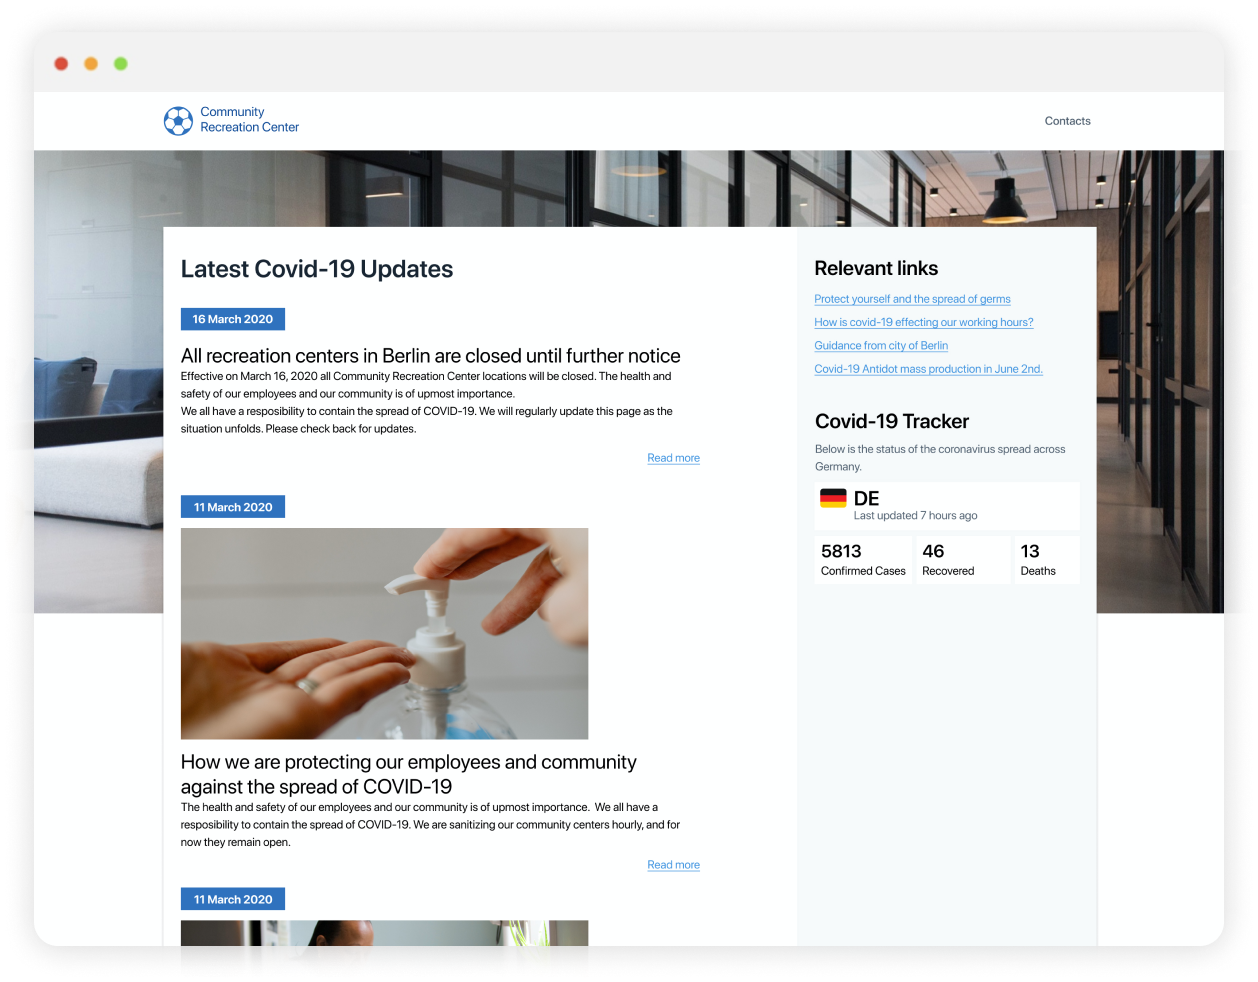
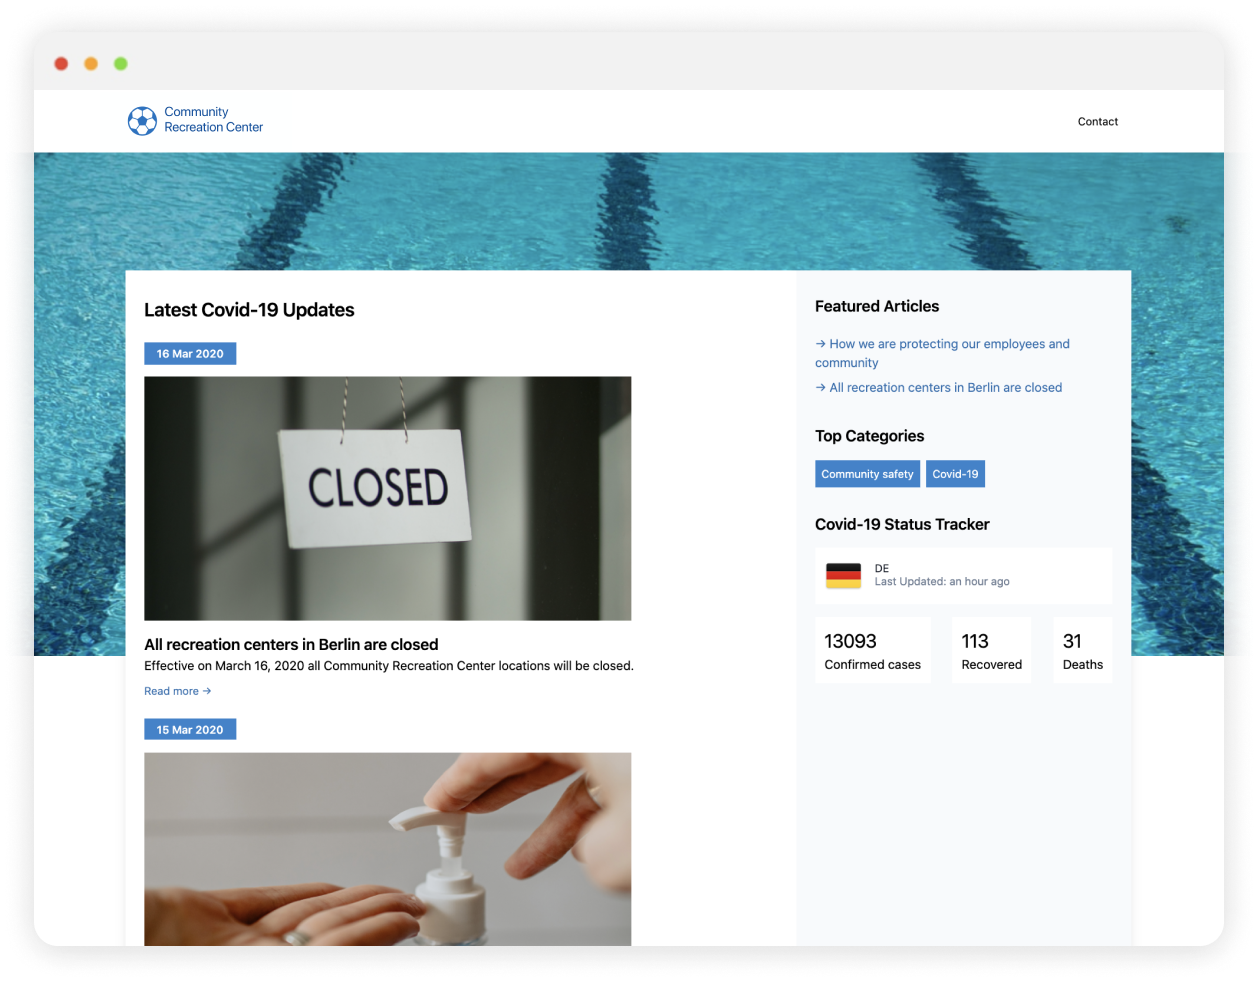
feat: update screenshots, and fix screenshot layout

diff --git a/src/components/Information.js b/src/components/Information.js
@@ -22,7 +22,7 @@ export default () => (
           View demo website
       </a>
     </div>
-    <div className="flex mx-auto flex-wrap flex-row md:flex-col container">
+    <div className="flex mx-auto flex-wrap flex-row lg:flex-no-wrap container">
       <div className="p-10 lg:p-12">
         <img src={leftScreenshot} alt="Covid-19 site template screenshot for recreational center" />
       </div>
